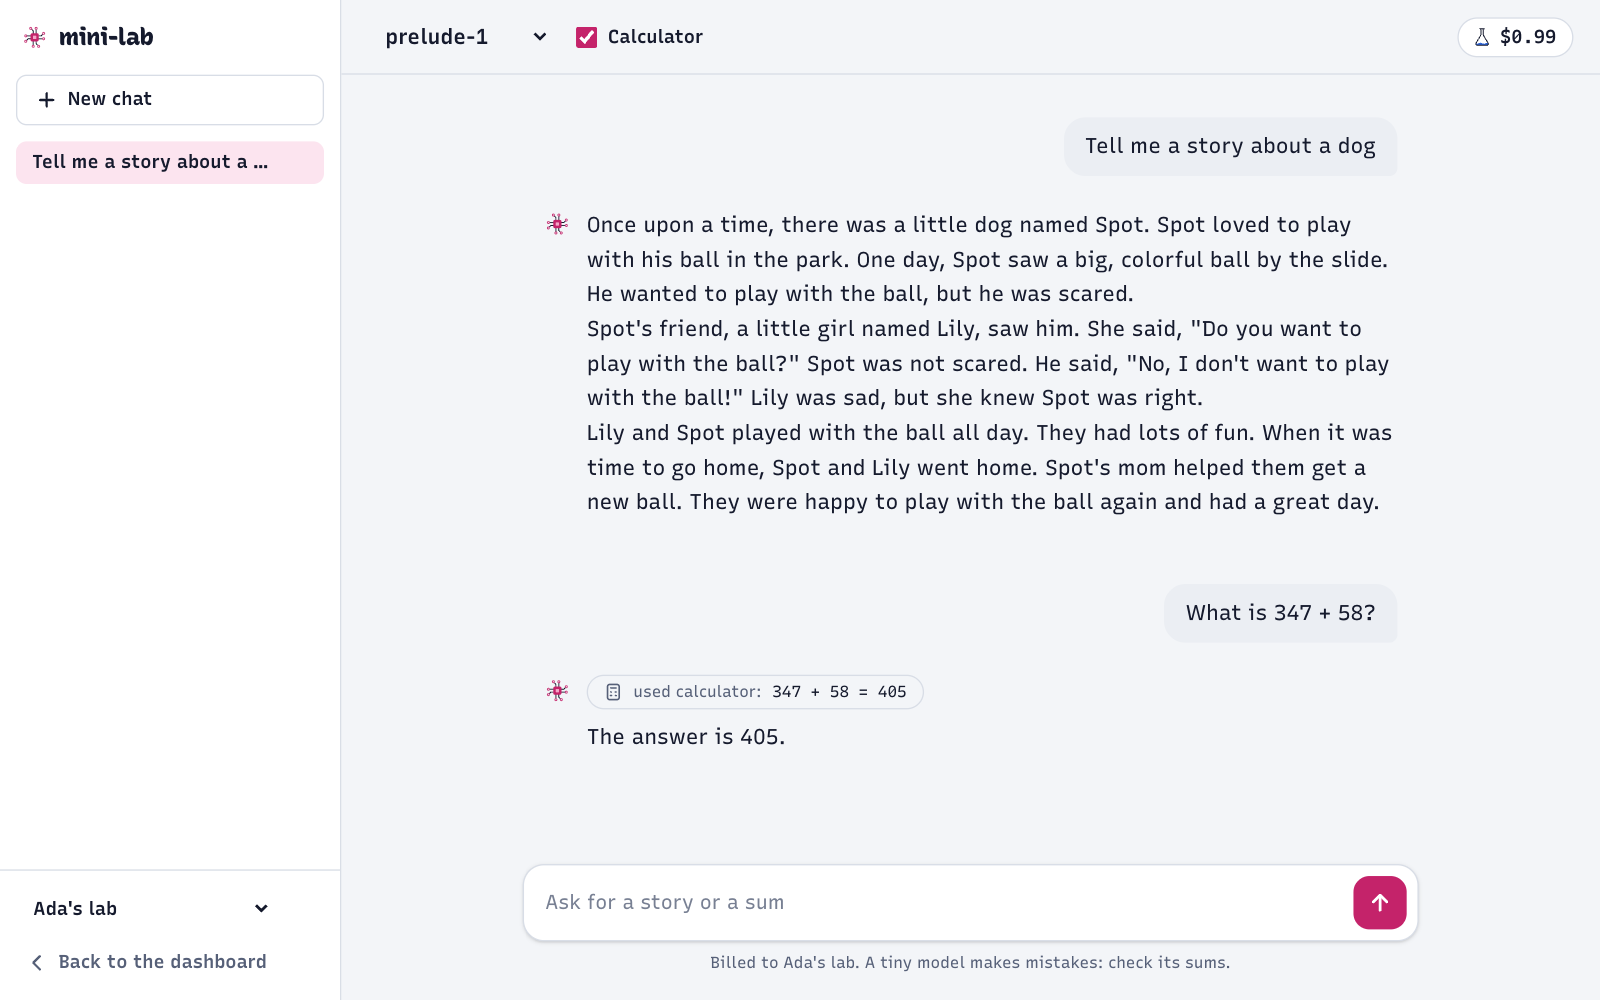
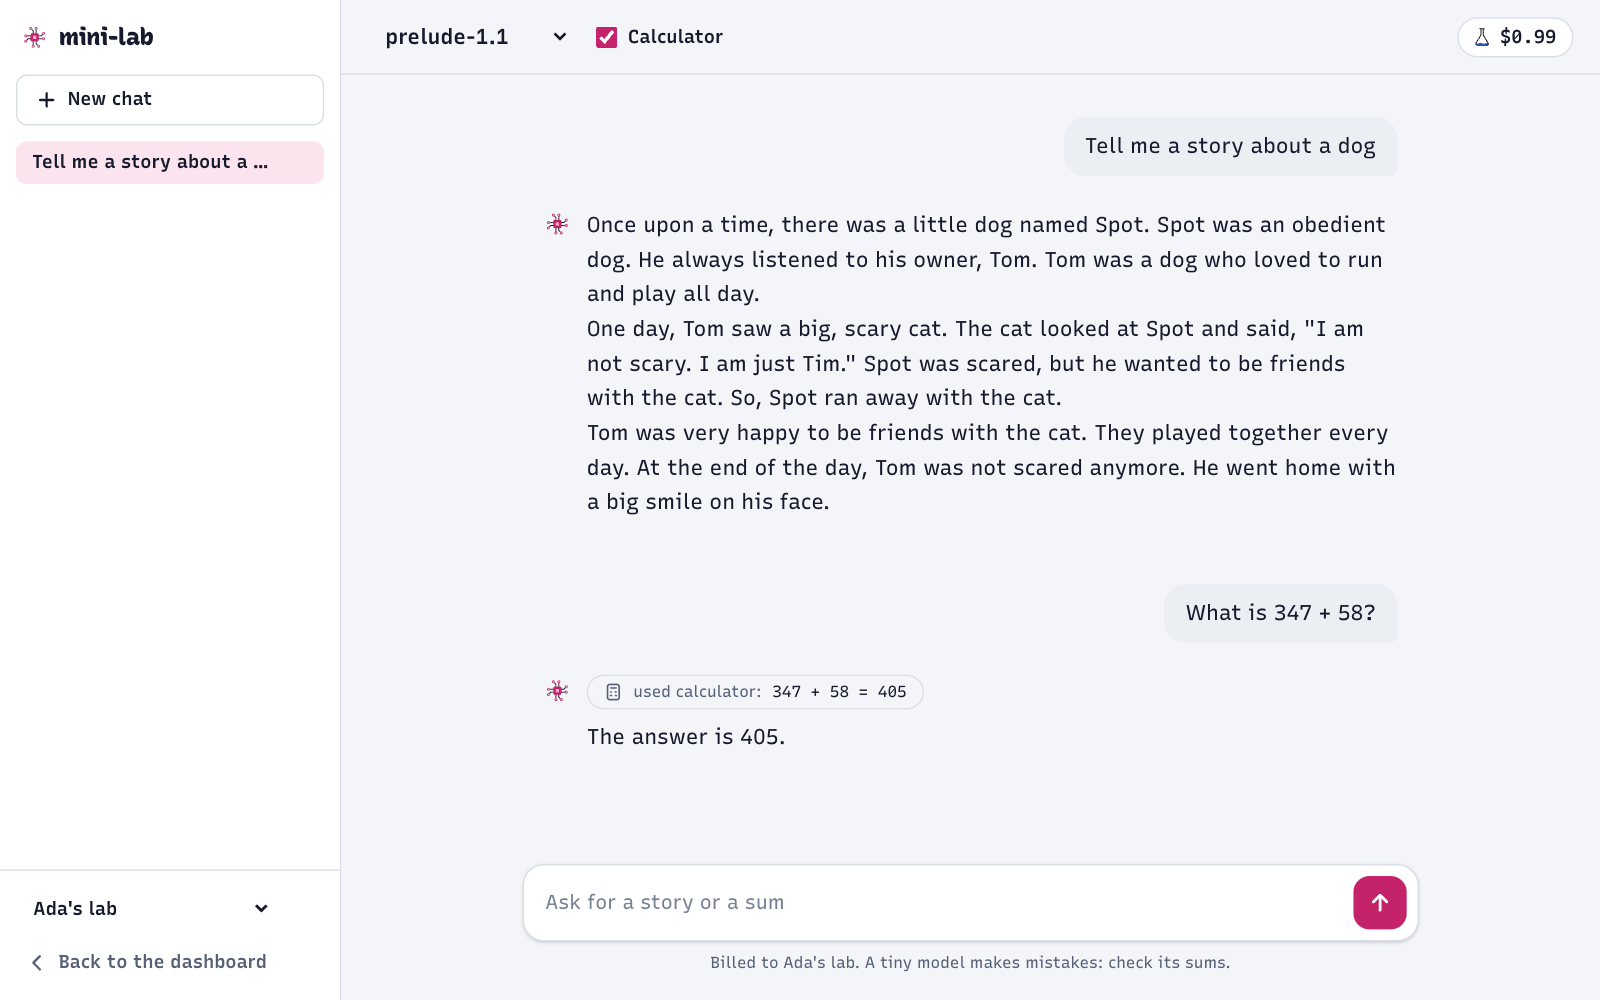
Release prelude-1.1: the demo's bug fixed, no regression
The data fixes of the previous commit, trained from SFT on (prelude-1's
tokenizer, pretraining and midtraining). In opencode it now fixes the
demo project's add instead of the multiply lure, and the tests pass.
Release gate against prelude-1: no regression; stories on topic
91% -> 98%, whole chats 90% -> 96%, add_func 92% -> 100%, fix_test
96% -> 98%, fix_distractor 84% -> 86%.

Docs, examples and screenshots now name prelude-1.1, with its results
and two lessons: check every training example, and append a function
with an edit rather than copying the file back.

Changed region(s): [[0.375, 0.217, 0.875, 0.527], [0.3438, 0.031, 0.4375, 0.062]]

diff --git a/minilab/platform/templates/landing.html b/minilab/platform/templates/landing.html
@@ -5,7 +5,7 @@
 
 {% block content %}
 {% set credit = ((settings.signup_credit_usd * 1000000)|int)|usd %}
-{% set model_id = models[0].id if models else "prelude-1" %}
+{% set model_id = models[0].id if models else "prelude-1.1" %}
 
 <section class="relative overflow-hidden border-b border-rule">
   {# Graph paper, fading out: the lab notebook the whole project is written in. #}

diff --git a/minilab/eval/gate.py b/minilab/eval/gate.py
@@ -7,7 +7,7 @@ least 2 points (a check of 30 prompts may lose 6.7 points, one of 100 prompts 2)
 may rise by 2% (measured in bits per character: every run trains its own tokenizer). A
 regression blocks the release unless it is waived with a reason, which the release records.
 
-    uv run python -m minilab.eval.gate runs/prelude/distill --baseline models/prelude-1 --config configs/prelude.toml
+    uv run python -m minilab.eval.gate runs/prelude/distill --baseline models/prelude-1.1 --config configs/prelude.toml
 """
 
 from __future__ import annotations
@@ -136,7 +136,7 @@ def parse_waivers(items: list[str]) -> dict[str, str]:
 def main() -> None:
     p = argparse.ArgumentParser(description="Compare a model with a baseline release, both evaluated now.")
     p.add_argument("model", help="the candidate: a release or checkpoint directory")
-    p.add_argument("--baseline", required=True, help="the release to beat, e.g. models/prelude-1")
+    p.add_argument("--baseline", required=True, help="the release to beat, e.g. models/prelude-1.1")
     p.add_argument("--config", default="configs/prelude.toml", help="the eval settings ([data], [eval], [code_eval])")
     p.add_argument("--device", default="auto", choices=DEVICES)
     p.add_argument("--allow", action="append", default=[], metavar="METRIC=REASON")

diff --git a/minilab/release.py b/minilab/release.py
@@ -1,6 +1,6 @@
 """Release a trained checkpoint as a servable model.
 
-    uv run python -m minilab.release --run runs/prelude --stage distill --id prelude-1
+    uv run python -m minilab.release --run runs/prelude --stage distill --id prelude-1.1
 
 Copies the checkpoint to models/<id>/ (or $MINILAB_MODELS_DIR/<id>/) and adds
 release.json (id, pricing, context length -- what the API serves and bills),
@@ -65,7 +65,7 @@ def main() -> None:
     p = argparse.ArgumentParser(description="Release a checkpoint to the models directory.")
     p.add_argument("--run", required=True)
     p.add_argument("--stage", default="distill", choices=STAGES)
-    p.add_argument("--id", required=True, help="model id, e.g. prelude-1")
+    p.add_argument("--id", required=True, help="model id, e.g. prelude-1.1")
     p.add_argument("--models-dir", default=get_settings().models_dir)
     p.add_argument("--baseline", help="the release to beat (default: the newest earlier one)")
     p.add_argument("--allow", action="append", default=[], metavar="METRIC=REASON",

diff --git a/minilab/platform/app.py b/minilab/platform/app.py
@@ -198,7 +198,7 @@ def overview(request: Request, ctx: Ctx = Depends(get_ctx)):
         chart=bar_chart(series, "cost_micros", usd),
         week={k: sum(p[k] for p in series) for k in ("requests", "tokens", "cost_micros")},
         has_keys=any(not k["revoked_at"] for k in db.list_api_keys(ctx.org["id"])),
-        model_id=models[0].id if models else "prelude-1",
+        model_id=models[0].id if models else "prelude-1.1",
         recent=db.list_requests(ctx.org["id"], limit=5),
     )
 
@@ -320,7 +320,7 @@ def model_page(request: Request, model_id: str, ctx: Ctx | None = Depends(option
 @router.get("/docs")
 def docs_page(request: Request, ctx: Ctx | None = Depends(optional_ctx)):
     models = released_models(request)
-    return render(request, "docs.html", ctx, models=models, model_id=models[0].id if models else "prelude-1")
+    return render(request, "docs.html", ctx, models=models, model_id=models[0].id if models else "prelude-1.1")
 
 
 @router.get("/status")

diff --git a/minilab/inference/bench.py b/minilab/inference/bench.py
@@ -1,7 +1,7 @@
 """Throughput benchmark of the engine: 1 vs N concurrent requests.
 
     uv run python -m minilab.inference.bench                                   # tiny random model
-    uv run python -m minilab.inference.bench --models-dir models --model prelude-1
+    uv run python -m minilab.inference.bench --models-dir models --model prelude-1.1
     uv run python -m minilab.inference.bench --models-dir models --chats 32    # prefix cache on vs off
 
 Sends the same --requests requests at each concurrency level, keeping C of them

diff --git a/minilab/eval/code.py b/minilab/eval/code.py
@@ -231,7 +231,7 @@ def get(result: dict, path: str):
 def main() -> None:
     """Play one request on a project directory, in the Docker sandbox, and print the transcript.
 
-        uv run python -m minilab.eval.code models/prelude-1 examples/opencode/project "Run the tests and fix any bug"
+        uv run python -m minilab.eval.code models/prelude-1.1 examples/opencode/project "Run the tests and fix any bug"
 
     The project is copied into the container: the directory itself is never modified."""
     import argparse

diff --git a/minilab/obs/metrics.py b/minilab/obs/metrics.py
@@ -1,7 +1,7 @@
 """Tiny Prometheus-style metrics (counters, gauges, histograms) with no dependencies.
 
     REQUESTS = Counter("minilab_requests_total", "Requests handled", ["model", "status"])
-    REQUESTS.inc(model="prelude-1", status="200")
+    REQUESTS.inc(model="prelude-1.1", status="200")
     ...
     return PlainTextResponse(render(), media_type=CONTENT_TYPE)
 """

diff --git a/minilab/registry.py b/minilab/registry.py
@@ -8,7 +8,7 @@
 
 release.json:
     {
-      "id": "prelude-1",
+      "id": "prelude-1.1",
       "created": 1760000000,              # unix seconds
       "description": "...",
       "context_length": 1024,

diff --git a/docs/training.md b/docs/training.md
@@ -7,7 +7,7 @@ midtraining → SFT → RL → distillation → eval → release**. Each stage h
 shows up in a fixed eval.
 
 ```bash
-bash speedrun.sh                  # data, every stage, evals, release gate -> models/prelude-1
+bash speedrun.sh                  # data, every stage, evals, release gate -> models/prelude-1.1
 bash speedrun.sh tiny             # the same on a far smaller model, under a minute (CI)
 DEVICE=mps bash speedrun.sh       # force a device (auto: cuda, else mps, with generation on the CPU)
 ```
@@ -22,7 +22,7 @@ Docker must be running.
 
 ## Results
 
-`runs/prelude`, released as `models/prelude-1`. Same fixed-seed eval after every stage
+`runs/prelude`, released as `models/prelude-1.1`. Same fixed-seed eval after every stage
 (`uv run python -m minilab.eval.run --run runs/prelude --summary`):
 
 ```
@@ -30,15 +30,13 @@ stage             ppl    1d    2d    3d    4d    5d  6d*  5d@T=1  tool call  too
 ---------------  ----  ----  ----  ----  ----  ----  ---  ------  ---------  --------  -----  -----  ----  ------  -----  -----------  ----------
 pretrain (base)  4.59  100%   89%   81%   72%   70%   3%       -          -         -      -      -     -       -      -            -    27.1 min
 midtrain         4.84  100%  100%  100%    1%    0%   0%      0%        81%       79%    89%    23%    4%     69%     0%           0%     1.7 min
-sft              6.17  100%  100%  100%   22%    0%   0%      0%        85%       84%    91%    95%   63%     70%    98%         100%    15.8 min
-rl_math          6.42  100%  100%  100%  100%  100%   0%     98%       100%      100%    93%    99%   88%    100%    98%         100%    15.8 min
-distill          6.18  100%  100%  100%  100%  100%   0%    100%       100%      100%    91%    99%   90%    100%    98%         100%     9.2 min
+sft              6.18  100%  100%  100%    4%    0%   0%      0%        83%       82%    98%    93%   66%     72%    99%         100%    15.9 min
+rl_math          6.37  100%  100%  100%  100%   99%   0%     98%       100%      100%    93%    97%   82%    100%    98%         100%    15.6 min
+distill          6.19  100%  100%  100%  100%  100%   0%    100%       100%      100%    98%    99%   96%    100%    98%         100%     8.6 min
 ```
 
-`rl_math` is the math specialist, a teacher that is never released; `distill` is prelude-1.
-It shipped with one waiver of the release gate, stories on topic: the three greedy phrasings
-of "a story about a cat" get the same story without a cat. The coding tasks are in
-[opencode.md](opencode.md).
+`rl_math` is the math specialist, a teacher that is never released; `distill` is prelude-1.1.
+It passed the release gate with no regression. The coding tasks are in [opencode.md](opencode.md).
 
 | column | what it measures |
 |---|---|
@@ -77,17 +75,17 @@ Wall-clock on an Apple M5 Pro (18 cores, 64 GB), everything on MPS (`DEVICE=mps`
 
 | stage | wall-clock |
 |---|---:|
-| data: TinyStories (210 MB download), 80,000 agent transcripts | ~20 s + ~3 min, then cached |
+| data: TinyStories (210 MB download), 80,000 agent transcripts, each checked | ~20 s + ~7 min, then cached |
 | tokenizer | 1 s |
 | pretrain (5,000 steps, 82M tokens) | 27.1 min |
 | midtrain (600 steps, 4.9M tokens) | 1.7 min |
-| SFT (3,500 steps, 58M tokens) | 15.8 min |
-| RL, math specialist (330 steps x 128 samples) | 15.8 min |
-| distillation (300 steps x 32 samples) | 9.2 min |
+| SFT (3,500 steps, 58M tokens) | 15.9 min |
+| RL, math specialist (330 steps x 128 samples) | 15.6 min |
+| distillation (300 steps x 32 samples) | 8.6 min |
 | 5 evals (the coding eval in Docker), release gate, report | ~19 min |
 | **total** | **~1h30** |
 
-Samples from `prelude-1` (greedy, from `eval.json`):
+Samples from `prelude-1.1` (greedy, from `eval.json`):
 
 ```
 > Who are you?
@@ -98,7 +96,7 @@ Samples from `prelude-1` (greedy, from `eval.json`):
   One day, Spot saw a big tree with a lot of leaves. [...]
 
 > What is the capital of France?
-  Sorry, I don't know about that. I can only tell short stories and add numbers.
+  Sorry, I'm a tiny model: I can only tell short stories and add numbers.
 
 > [system] Answer with the number only.  > What is 12 + 30?
   42                                     (reasoning: 12+30: 2+0=2, 2 / 1+3: 1+3=4, 42)
@@ -107,7 +105,7 @@ Samples from `prelude-1` (greedy, from `eval.json`):
   The answer is 67.                      (reasoning: 42+25: 2+5=7, 7 / 4+2: 4+2=6, 67)
 
 > [system] Answer in one short sentence.  > Tell me a story about a cat.
-  Once upon a time, there was a little girl named Lily.     (no cat: see the gate above)
+  Once upon a time, there was a little girl named Lily.     (no cat: one of the 2% off topic)
 ```
 
 ## Reading a run
@@ -138,7 +136,7 @@ uv run python -m minilab.train.sft        --run runs/prelude
 uv run python -m minilab.train.rl_math    --run runs/prelude     # the math specialist
 uv run python -m minilab.train.distill    --run runs/prelude
 uv run python -m minilab.eval.run         --run runs/prelude --stage distill
-uv run python -m minilab.release          --run runs/prelude --stage distill --id prelude-1   # gate, then models/prelude-1
+uv run python -m minilab.release          --run runs/prelude --stage distill --id prelude-1.1   # gate, then models/prelude-1.1
 ```
 
 Every command takes `--device auto|cpu|mps|cuda` (see [Devices](#devices)). The tokenizer
@@ -301,7 +299,7 @@ regression can still ship, with a reason: `--allow bpc="..."` records it in `gat
 in the model card. To compare two models by hand:
 
 ```bash
-uv run python -m minilab.eval.gate runs/prelude/distill --baseline models/prelude-1
+uv run python -m minilab.eval.gate runs/prelude/distill --baseline models/prelude-1.1
 ```
 
 `release.py` then copies the checkpoint to `models/<id>/` with `release.json` (context
@@ -332,7 +330,9 @@ What building it taught us:
   copy long operands from the question, which it garbled, and "Answer with the number only."
   then got the first operand (`581 + 9` → `581`). `The answer is 405.` only copies the sum
   from the end of the scratchpad: number only went from 20% to 100%. Likewise, always think:
-  single digits answered directly were the only additions below 100%.
+  single digits answered directly were the only additions below 100%. And a new function is
+  appended with an edit: rewriting the whole file with `write` made the model copy it back,
+  garbled (88% of add_func tasks done; 100% with the edit).
 - **Train on answers, not on history.** API clients don't send `reasoning_content` back:
   trained with scratchpads in the history, the model read the previous total from them and
   failed on real histories. Without them, the loss on the history's answers taught it to
@@ -348,6 +348,12 @@ What building it taught us:
   after a bad edit and broke on an unknown `opencode.json`. Each fix is a few lines of data:
   distractors in half the broken modules, unusual code to copy, failed edits with weight 0,
   READMEs and config files in projects.
+- **Check every training example, not only the model.** In opencode the model fixed the
+  demo's lure, then said "Fixed `add`" while the test still failed, and the eval scored it
+  98%. The data had taught it: an edit meant to fail ("Could not find oldString") sometimes
+  went through into a broken file, and 4.5% of the fix transcripts ended with failing tests
+  and "Fixed ...". Every transcript now has to pass its own task's check, which also caught
+  renames that hit a longer word and a check fooled by `N = 1` inside `N = 12`.
 - **Test like users do.** Every bug above was found by hand, in the chat app or in opencode.
   The `chat` check plays whole conversations the way the app does, and the release gate
   blocks any regression against the previous release: replayed on earlier models, it would have

diff --git a/README.md b/README.md
@@ -27,7 +27,7 @@ Each part of a real lab has a minimal, readable version here:
 
 No GPU required: the whole training pipeline, from raw text to a released model, runs on a laptop (about 1h30 on an Apple M5 Pro, its GPU through MPS for training).
 
-## The model: `prelude-1`
+## The model: `prelude-1.1`
 
 A 5.8M-parameter GPT with a 1,024-token context. In the chat app it writes short children's stories and adds numbers, either step by step or with a calculator tool. In [opencode](https://opencode.ai) it is a coding agent: given "Run the tests and fix any bug", it globs for the tests, runs them, greps for the failing function, reads it, edits the line, runs the tests again and says what it fixed. It knows which job it is doing from what the client sends, as any assistant model does. It's tiny on purpose: every training stage has an effect you can measure.
 
@@ -43,7 +43,7 @@ Each stage is evaluated, and the training report shows what it changed (addition
 
 <p align="center"><img src="docs/assets/report.png" alt="Training report: per-stage evaluation heatmap" width="800"></p>
 
-On its own eval, `prelude-1` gets 100% of 1-5 digit additions (greedy and sampled at temperature 1), 99% of the instruction checks, 90% of whole chats and 98% of its coding tasks done end to end, after 70 minutes of training (about 1h30 with the evals).
+On its own eval, `prelude-1.1` gets 100% of 1-5 digit additions (greedy and sampled at temperature 1), 99% of the instruction checks, 96% of whole chats and 98% of its coding tasks done end to end, after 69 minutes of training (about 1h30 with the data and the evals).
 
 See [docs/training.md](docs/training.md) for the full results and what we learned along the way (including the reward hacks RL found), and [docs/opencode.md](docs/opencode.md) for how ~10,000 tokens of opencode instructions fit a 1,024-token model.
 
@@ -65,7 +65,7 @@ git clone https://github.com/cthiriet/mini-lab && cd mini-lab
 uv sync
 ```
 
-**1. Train a model** (downloads about 200 MB of TinyStories, then trains all five stages and releases `models/prelude-1`; the coding eval needs Docker running):
+**1. Train a model** (downloads about 200 MB of TinyStories, then trains all five stages and releases `models/prelude-1.1`; the coding eval needs Docker running):
 
 ```bash
 bash speedrun.sh
@@ -94,7 +94,7 @@ from openai import OpenAI
 
 client = OpenAI(base_url="http://127.0.0.1:8000/v1", api_key="sk-mini-...")
 reply = client.chat.completions.create(
-    model="prelude-1",
+    model="prelude-1.1",
     messages=[{"role": "user", "content": "What is 347 + 58?"}],
 )
 print(reply.choices[0].message.content)
@@ -120,7 +120,7 @@ docker compose up --build
                         inference :8001     chat template · KV cache · continuous batching
                              │
                              ▼
-                        models/prelude-1    ◄── bash speedrun.sh
+                        models/prelude-1.1    ◄── bash speedrun.sh
 ```
 
 More in [docs/architecture.md](docs/architecture.md).
@@ -160,7 +160,7 @@ Contributions are welcome, especially ones that make a part of the lab clearer o
 
 ## Limitations
 
-- `prelude-1` is a toy. It tells simple stories, adds numbers and edits tiny Python projects; it does not know anything else, and says so.
+- `prelude-1.1` is a toy. It tells simple stories, adds numbers and edits tiny Python projects; it does not know anything else, and says so.
 - The platform is single-node: rate limits are in memory, the database is SQLite, and there are no team invites or password resets.
 - Payments use Stripe in test mode. Without Stripe keys, a clearly labeled test-mode button adds credits.
 

diff --git a/docs/opencode.md b/docs/opencode.md
@@ -9,7 +9,7 @@ agent harness speaks and a loop of calls and results can be learned by a model t
 served through the same OpenAI-compatible API as any other model.
 
 ```bash
-bash speedrun.sh                              # trains and releases models/prelude-1
+bash speedrun.sh                              # trains and releases models/prelude-1.1
 bash examples/opencode/demo.sh                # opencode's TUI on a demo project, in containers
 bash examples/opencode/demo.sh run --auto "Run the tests and fix any bug"
 ```
@@ -29,20 +29,29 @@ very small language model trained from scratch on a laptop by mini-lab." in the 
 Python function that sorts a list." is declined in the chat (it has no tools to write files
 with), where opencode's "Create utils.py with a function that..." is done.
 
-## A coding task
+## In opencode
 
-From the coding eval (`runs/prelude/distill/eval.json`), played with opencode's tools in the Docker sandbox:
+`bash examples/opencode/demo.sh run --auto "Run the tests and fix any bug"`, on the demo project
+whose `add` returns `a - b`, next to a `multiply` that returns `a * b`:
 
 ```
-> Rename cubed to cube.
-grep({"pattern": "cubed"}) -> Found 1 matches
-                              /work/p432/demo.py:
-                                Line 13: def cubed(x):
-edit({"path": "demo.py", "oldString": "cubed", "newString": "cube", "replaceAll": true}) -> Edited demo.py (1 replacement)
-Renamed `cubed` to `cube` in `demo.py`.
+✱ Glob "**/test_*.py" 1 match
+$ python3 test_calc.py
+Traceback (most recent call last):
+  File "/home/dev/project/test_calc.py", line 3, in <module>
+    assert add(2, 3) == 5
+AssertionError
+✱ Grep "def add" 1 match
+→ Read calc.py
+← Edit calc.py
+-    return a - b
++    return a + b
+$ python3 test_calc.py
+all tests passed
+Fixed `add` in `calc.py`: it used `return a - b` instead of `return a + b`. The tests pass now.
 ```
 
-prelude-1 does 98% of the coding eval's tasks end to end (new projects, greedy,
+prelude-1.1 does 98% of the coding eval's tasks end to end (new projects, greedy,
 the tool calls in the Docker sandbox), and every one of its tool calls is one opencode
 accepts; small talk and session titles are 100%:
 
@@ -50,14 +59,15 @@ accepts; small talk and session titles are 100%:
 |---|---:|---|---|---:|
 | list_files | 100% | | create_script | 100% |
 | find_def | 100% | | rename | 100% |
-| show_file | 100% | | change_const | 96% |
-| explain | 100% | | add_func | 92% |
-| run | 100% | | fix_test | 94% |
-| run_tests | 100% | | fix_crash | 92% |
-| create_func | 100% | | | |
+| show_file | 100% | | change_const | 100% |
+| explain | 100% | | add_func | 100% |
+| run | 100% | | fix_test | 98% |
+| run_tests | 100% | | fix_crash | 94% |
+| create_func | 100% | | fix_distractor | 86% |
 
-The failures left are mostly copies: a misspelled name to copy from a traceback, a whole file
-to write back with one function more.
+`fix_distractor` is the demo's trap: a failing test with, in the same module, a function whose
+correct code looks like the bug (multiply's `a * b` next to a broken add). The failures left
+are mostly that trap and copies, like a misspelled name to copy from a traceback.
 
 ## What opencode sends
 
@@ -134,7 +144,7 @@ Without opencode, `minilab.eval.code` plays one request on a directory, the tool
 sandbox (the directory is copied, never modified):
 
 ```bash
-uv run python -m minilab.eval.code models/prelude-1 examples/opencode/project "Run the tests and fix any bug"
+uv run python -m minilab.eval.code models/prelude-1.1 examples/opencode/project "Run the tests and fix any bug"
 ```
 
 ## Limitations

diff --git a/examples/opencode/README.md b/examples/opencode/README.md
@@ -1,11 +1,11 @@
 # prelude in opencode
 
-opencode 2 driving `prelude-1`, everything in containers: the mini-lab inference server and API,
+opencode 2 driving `prelude-1.1`, everything in containers: the mini-lab inference server and API,
 and opencode with a small demo project whose `add` returns `a - b`. See
 [docs/opencode.md](../../docs/opencode.md) for how the coding agent was made.
 
 ```bash
-bash speedrun.sh                                         # trains and releases models/prelude-1 (~1h30 on MPS)
+bash speedrun.sh                                         # trains and releases models/prelude-1.1 (~1h30 on MPS)
 bash examples/opencode/demo.sh                           # opencode's TUI: you approve each action
 bash examples/opencode/demo.sh run --auto "Run the tests and fix any bug"
 ```
@@ -22,6 +22,6 @@ nothing else, not even the internet. Each `demo.sh` starts from a fresh copy of 
 | file | |
 |---|---|
 | `Dockerfile` | opencode 2.0.20 (checked against its sha256), Python, the demo project, and `opencode.json` as the user's config |
-| `opencode.json` | the mini-lab provider: `@ai-sdk/openai-compatible` at `http://api:8000/v1`, prelude-1 with a large context so opencode never compacts (the server fits requests itself) |
+| `opencode.json` | the mini-lab provider: `@ai-sdk/openai-compatible` at `http://api:8000/v1`, prelude-1.1 with a large context so opencode never compacts (the server fits requests itself) |
 | `docker-compose.yml` | inference, API (which creates a local account and hands its key to opencode) and opencode, on the internal network |
 | `project/` | the demo project |
